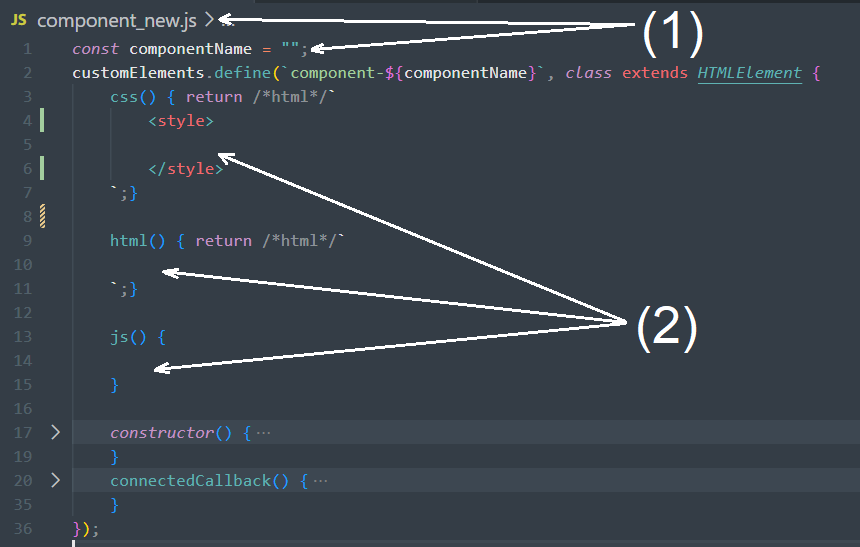
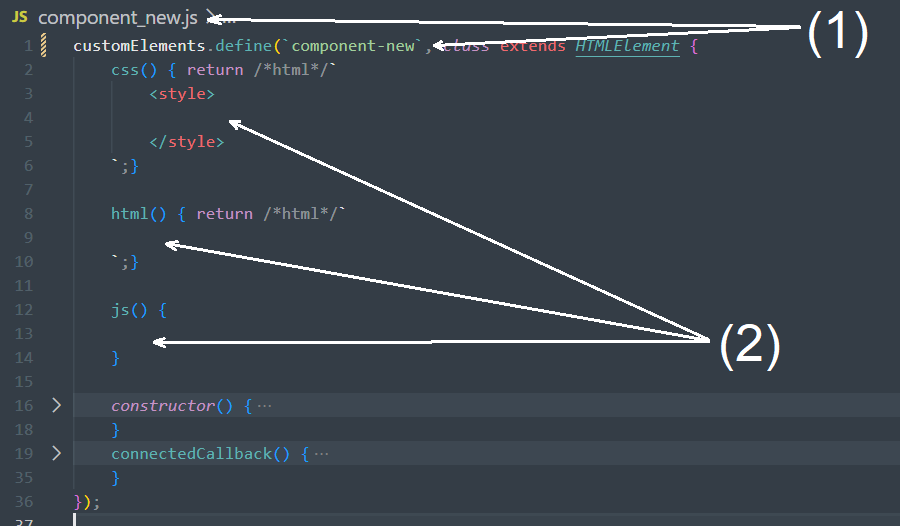
component & readme update

diff --git a/component_new.js b/component_new.js
@@ -1,5 +1,4 @@
-const componentName = "";
-customElements.define(`component-${componentName}`, class extends HTMLElement {
+customElements.define(`component-new`, class extends HTMLElement {
     css() { return /*html*/`
         <style>
 
@@ -19,6 +18,7 @@ customElements.define(`component-${componentName}`, class extends HTMLElement {
     }
     connectedCallback() {
         if(!this.firstElementChild) {
+            const componentName = self.tagName.toLowerCase().replace('component-','');
             const styleId = `style-component-${componentName}`;
             if(!this.ownerDocument.querySelector(`#${styleId}`)) {
                 const cssTemp = document.createElement('template');

diff --git a/README.md b/README.md
@@ -3,7 +3,7 @@
 2. Build component js within `script()`
 3. Rename: filename `component_new.js` & code `component-new` -->
 
-1. Rename: filename `component_new.js` & code `componentName = ""`
+1. Rename: filename `component_new.js` & code `component-new`
 2. Build component css, html, and js in respective functions
     - Note: css and html functions are built as html-template strings
 
